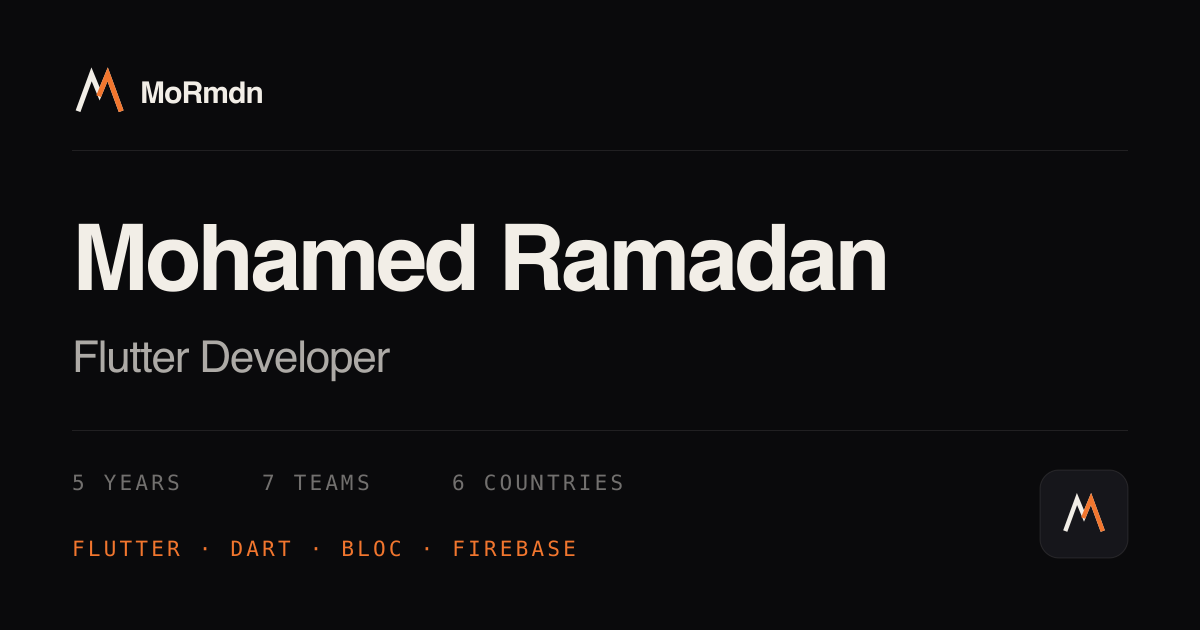
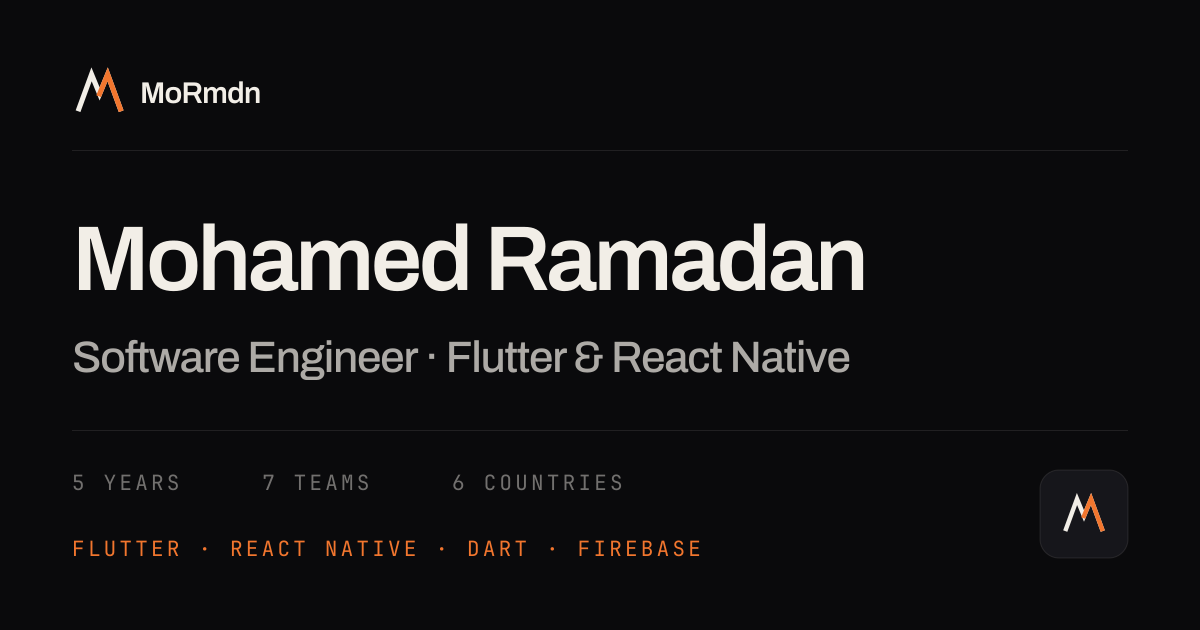
Retitle as Software Engineer, Flutter and React Native
The site title, description, hero intro, search keywords, manifest and
Open Graph card now read "Software Engineer · Flutter & React Native",
and React Native joins the skills and the marquee. Past job titles in
the experience stay as the employers gave them.

The banners read the title from content/site.ts instead of hardcoding
"Flutter Developer", so they follow the site. public/og.png is
regenerated with Archivo installed, so it now renders in the brand font
rather than the Helvetica fallback.

Claude-Session: https://claude.ai/code/session_01NE6S8hkigA532k2YMrvd3d

diff --git a/content/site.ts b/content/site.ts
@@ -3,13 +3,13 @@
 export const site = {
   name: "Mohamed Ramadan",
   shortName: "MoRmdn",
-  title: "Flutter Developer",
+  title: "Software Engineer · Flutter & React Native",
   subtitle: "Cross-Platform Mobile Applications",
   location: "Mansoura, Egypt",
   timezone: "UTC+3",
   url: "https://mormdn.com",
   description:
-    "Mohamed Ramadan — Flutter developer in Mansoura, Egypt. Five years building cross-platform mobile apps for teams in six countries. Bloc, GetX, Cubit, Firebase, clean architecture.",
+    "Mohamed Ramadan — software engineer in Mansoura, Egypt, building mobile apps in Flutter and React Native. Five years shipping cross-platform apps for teams in six countries. Bloc, GetX, Cubit, Firebase, clean architecture.",
   designCodename: "Obsidian & Copper",
   designVersion: "v2.0",
 
@@ -23,7 +23,7 @@ export const site = {
    * and a lastmod that always says today is a lastmod Google learns to ignore.
    * Bump this when the content genuinely changes.
    */
-  contentLastChanged: "2026-10-30",
+  contentLastChanged: "2026-11-04",
 } as const;
 
 export const contact = {

diff --git a/content/skills.ts b/content/skills.ts
@@ -10,12 +10,13 @@ import type { SkillGroup } from "./types";
  * localisation and feature-first architecture were all missing.
  *
  * "Moyasar" was previously misspelled "Moyaser". September 2026 added the
- * front-end and Supabase capabilities, all exercised in JS Quest.
+ * front-end and Supabase capabilities, all exercised in JS Quest. November
+ * 2026 added React Native, which the CV does not list yet.
  */
 export const skillGroups: SkillGroup[] = [
   {
     label: "Languages & frameworks",
-    items: ["Dart", "Flutter", "JavaScript", "React", "Next.js", "Python", "HTML", "CSS"],
+    items: ["Dart", "Flutter", "React Native", "JavaScript", "React", "Next.js", "Python", "HTML", "CSS"],
     highlighted: true,
   },
   {
@@ -83,6 +84,7 @@ export const skillGroups: SkillGroup[] = [
 export const marqueeItems = [
   "Dart",
   "Flutter",
+  "React Native",
   "Bloc",
   "GetX",
   "Riverpod",

diff --git a/content/copy.ts b/content/copy.ts
@@ -18,7 +18,7 @@ export const hero = {
    * data fidelity and deliberately NOT rendered.
    */
   headlineAccentIndex: 2,
-  intro: `I'm ${site.name} — a mobile developer with ${metrics.yearsExperience} years spent building cross-platform products for teams in ${metrics.countries} countries. Bloc, GetX, Cubit, clean architecture, and a stubborn preference for 60fps.`,
+  intro: `I'm ${site.name} — a software engineer with ${metrics.yearsExperience} years spent building cross-platform mobile products for teams in ${metrics.countries} countries, in Flutter first and now React Native too. Bloc, GetX, Cubit, clean architecture, and a stubborn preference for 60fps.`,
   primaryCta: { label: "See the work", href: "#projects" },
   // WhatsApp is the stated first-choice channel, so it takes the hero's
   // secondary action. The email address still appears in Contact, the footer

diff --git a/app/layout.tsx b/app/layout.tsx
@@ -61,6 +61,8 @@ export const metadata: Metadata = {
   creator: site.name,
   keywords: [
     "Flutter developer",
+    "React Native developer",
+    "Software engineer",
     "Mobile developer",
     "Cross-platform",
     "Dart",

diff --git a/README.md b/README.md
@@ -4,8 +4,8 @@ Single-page portfolio. Next.js 16, statically exported, hosted on Firebase.
 
 **Live:** [mormdn.com](https://mormdn.com)
 
-Flutter developer in Mansoura. Five years of cross-platform apps. The page is
-one scroll: Hero, About, Experience, Projects, Skills, Contact.
+Software engineer in Mansoura, building mobile apps in Flutter and React Native.
+Five years of cross-platform apps. The page is one scroll: Hero, About, Experience, Projects, Skills, Contact.
 
 ## Why React
 
